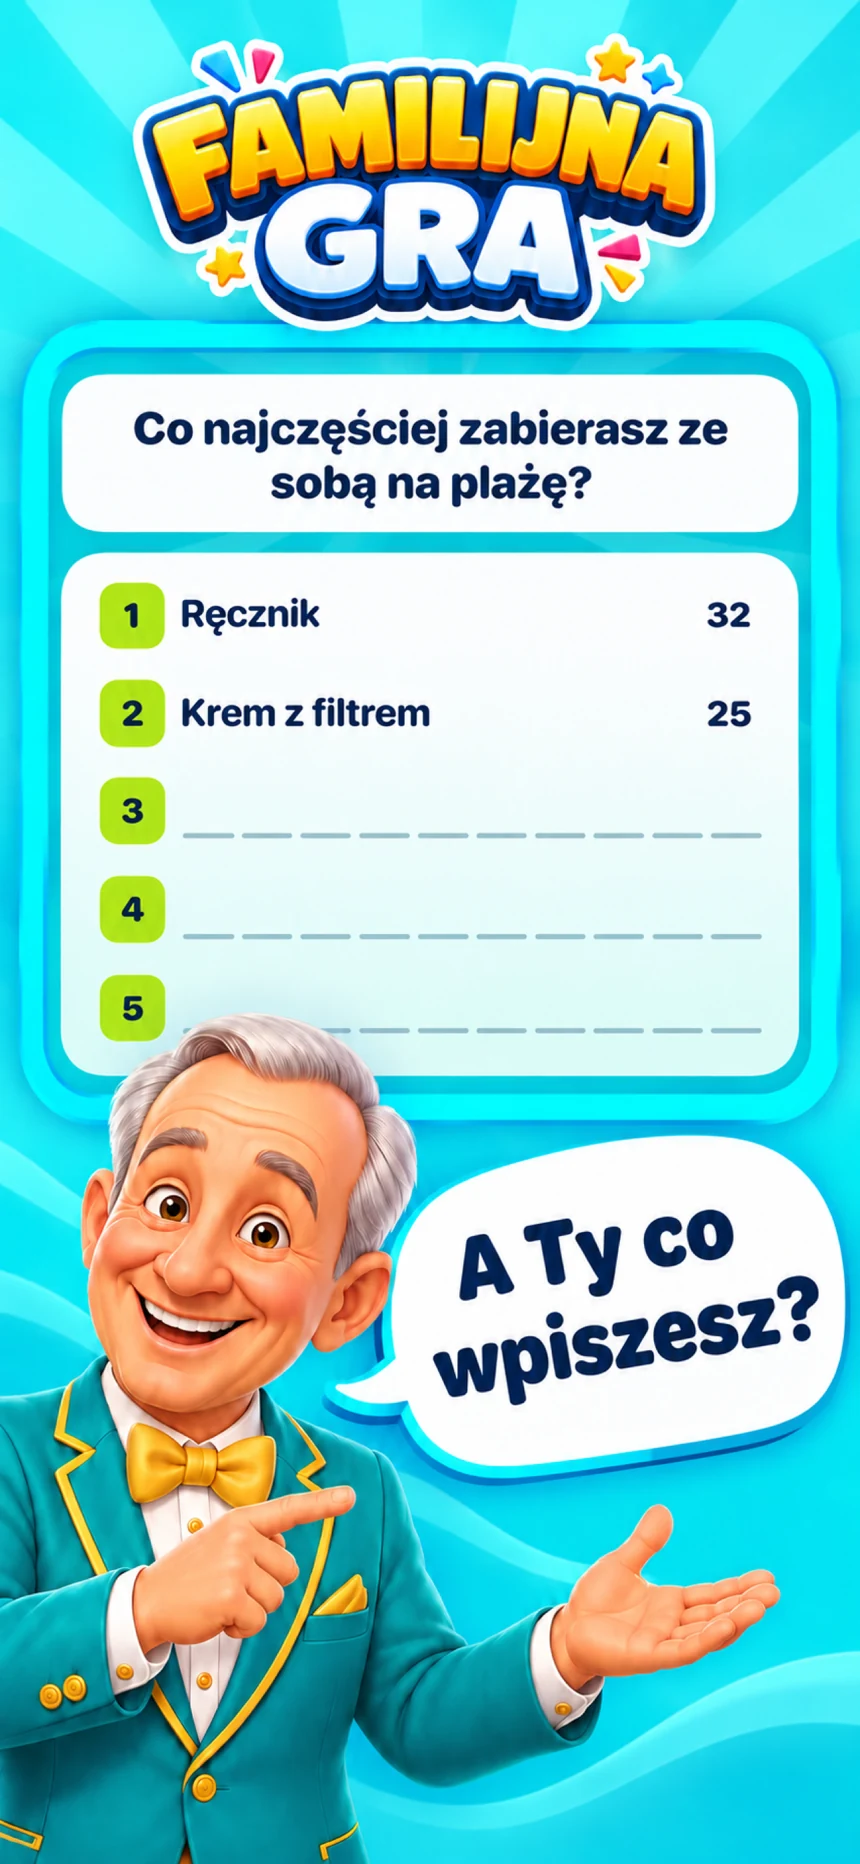
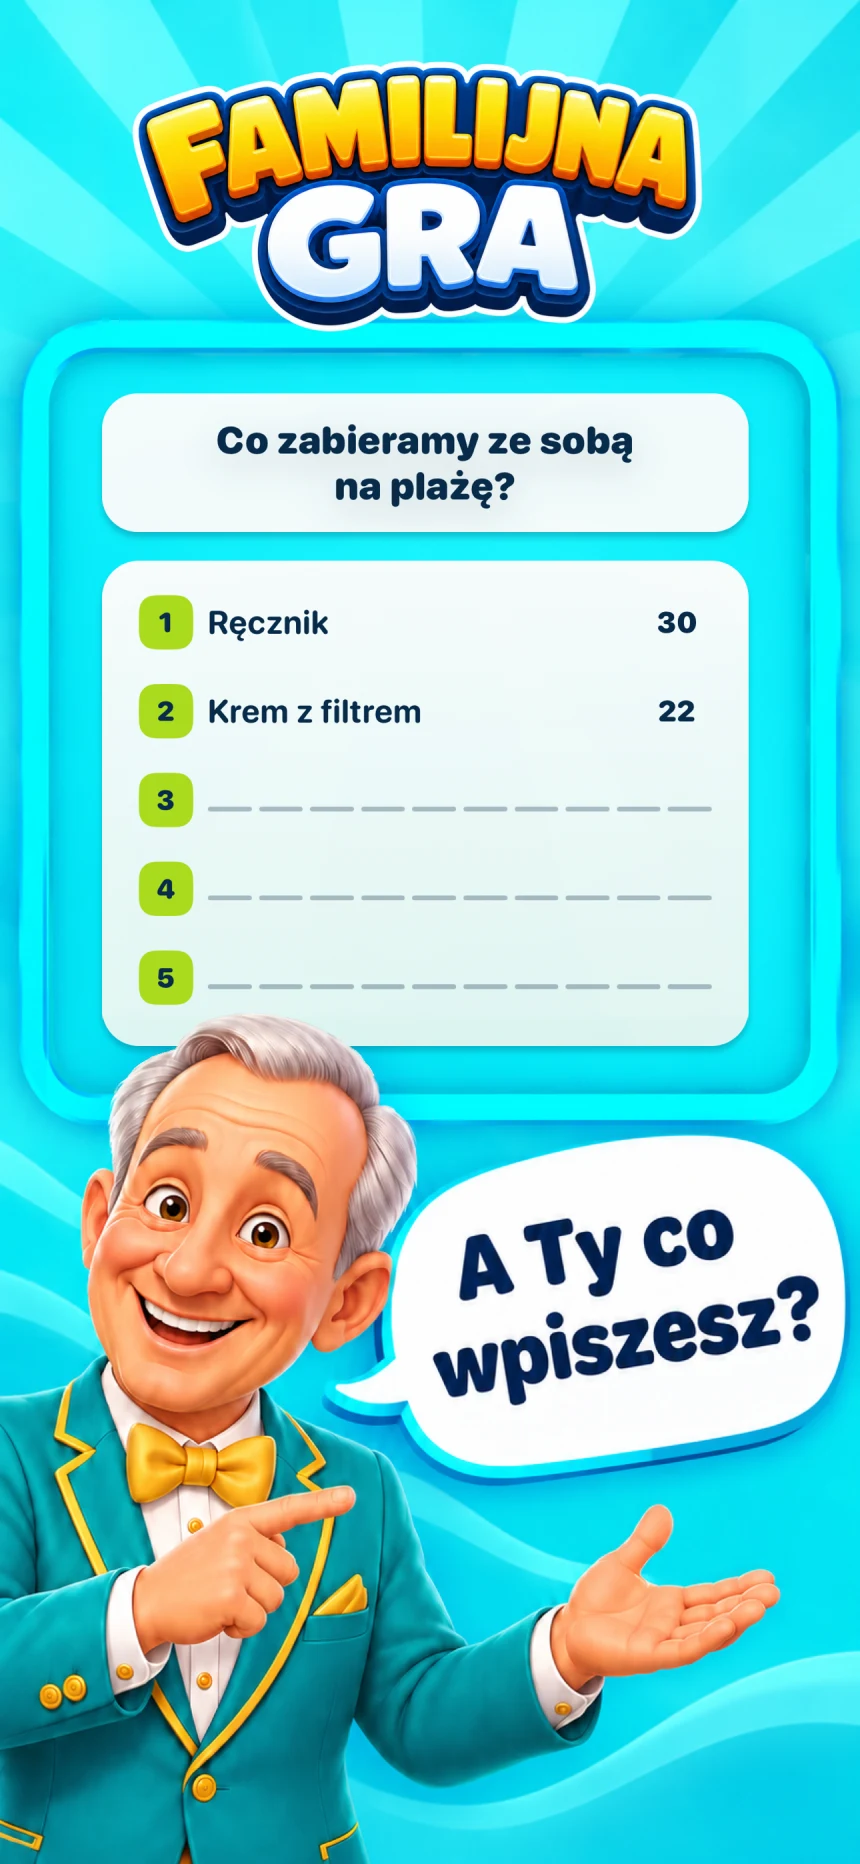
Refresh the Familijna Gra page with the Daily Question, chapter Finales and new screenshots

diff --git a/src/content.ts b/src/content.ts
@@ -9,7 +9,7 @@ export const content = {
       lighterApp: "Lighter Simulator - 3D lighters, Twin Jet torches and a Studio for your own designs on iPhone and iPad.",
       cachelift: "CacheLift - a free macOS app to find app caches, old downloads and unused files, review their risks and choose what to clean.",
       family: "Family Showdown support and privacy policy. Published in Poland as Familijna Gra.",
-      familyGame: "Family Showdown - the English edition of the family guessing game for iPhone. Guess popular answers, play Solo chapters, duel online or against a bot, and win points for your family.",
+      familyGame: "Family Showdown - a family guessing game for iPhone with a Daily Question, Solo challenges, online duels and offline bot matches.",
     },
     controls: {
       language: "Language",
@@ -235,7 +235,7 @@ export const content = {
       download: "Download on the",
       storeUrl: "https://apps.apple.com/us/app/family-showdown-quiz/id6805541234",
       availability: "Free with an in-app purchase · iOS 17 or later · US App Store",
-      highlights: ["In English", "Solo campaign", "English ranking"],
+      highlights: ["Daily Question", "Solo campaign", "Online duels"],
       heroImage: "en-guess",
       heroAlt: "Family Showdown promotional image with the host and a board asking what we take to the beach",
       howTitle: "One board. Plenty of ideas.",
@@ -246,19 +246,24 @@ export const content = {
         ["Win for your family", "Play five rounds. The family with more points wins, and a tied score plays one more round."],
       ],
       galleryTitle: "What is inside",
-      galleryDescription: "Play at your own pace in Solo, or go head to head in Duel. Each board totals 100 points. The points show what an answer is worth in the game. They are not a poll result.",
+      galleryDescription: "A Daily Question, Solo challenges with chapter Finales and duels online or against a bot.",
       screenshots: [
-        { image: "en-solo", title: "Go Solo", description: "Five chapters of challenges to play at your own pace.", alt: "Solo map of chapter 1, Around the House, with the caption Your Solo adventure" },
-        { image: "en-play", title: "Online or against a bot", description: "Find an opponent, or start a local match whenever you like.", alt: "Game image presenting local play against a bot and online play" },
+        { image: "en-solo", title: "Your Solo adventure", description: "Five chapters and 30 challenges on one scrolling map, with a Finale at the end of each chapter.", alt: "Solo map with completed challenges and the Finale gate in chapter 1, Around the House" },
+        { image: "en-play", title: "Online or against a bot", description: "Find an opponent, or choose Play locally to start a bot match.", alt: "Game image presenting local play against a bot and online play" },
         { image: "en-leaderboard", title: "Climb the leaderboard", description: "Online duels move your family up the English leaderboard.", alt: "English leaderboard of online duels with family names and points" },
+        { image: "en-daily", title: "One new board every day", description: "One try, three lives and the same board for everyone playing in your language.", alt: "Daily Question gameplay asking when we shower, with two revealed answers and three lives" },
+        { image: "en-finale", title: "The chapter Finale", description: "Six questions, one answer per board and 50 seconds for the whole chapter Finale.", alt: "Chapter 1 Finale introduction, with six questions, a 50-second timer and star thresholds of 80, 100 and 120 points" },
+        { image: "en-daily-share", title: "Keep your streak going", description: "Compare Daily Question scores on Game Center and share your result with friends.", alt: "Daily Question share card with a 100-point score, a full board and a five-day streak" },
       ],
       details: [
-        ["Solo", "Five chapters and 30 challenges: Around the House, Just Outside the Door, Out Shopping, On the Road, and Let's Celebrate. Earn up to three stars on a challenge. Chapter 1 is free, and each chapter opens when the one before it is complete."],
-        ["Duel", "Play against another family online through Game Center, with its own English ranking, or choose Play locally and face a bot right away. Duel has 83 questions about food, home, travel, pets and everyday habits."],
-        ["Full game", "A one-time purchase opens chapters 2-5 of the Solo campaign and unlocks unlimited hints, with no ads for hints."],
+        ["Daily Question", "One new board every day, shared by players using the same language. You get one try and three lives. Build your streak, compare scores on Game Center, share your result and set a reminder for a time that suits you. New boards download over the internet."],
+        ["Solo", "Five chapters and 30 challenges about home, shopping, travel and celebrations. Play at your own pace and earn up to three stars per challenge. Solo works offline and needs no family profile or Game Center sign-in."],
+        ["Chapter Finales", "Each chapter ends with six questions and one shared 50-second timer. Give one answer per board and earn 80, 100 or 120 points for one, two or three stars. Pass the Finale to move on, with all chapters on one scrolling map."],
+        ["The whole campaign for free", "Finish a chapter, then watch one rewarded ad to open the next one. The one-time Full game purchase removes ads for chapters 2–5 and gives unlimited Solo hints. You still complete chapters in order; your campaign save stays on the device."],
+        ["Duel", "Play another family online through Game Center, climb the English leaderboard and earn achievements. You can also choose Play locally and face a bot, even offline. Each match has five rounds, with a tiebreaker if needed."],
         ["Hints", "A hint reveals a random hidden answer and never costs a life, but that attempt can earn at most two stars. One Solo hint each day is free, and you can watch a rewarded ad for another one."],
       ],
-      gameLanguage: "Family Showdown is the English edition. The game and all questions are in English. The Polish edition is called Familijna Gra and is available in the Polish App Store. Solo and bot matches work offline; online play requires internet, Game Center sign-in and a family name reserved through iCloud.",
+      gameLanguage: "Choose English or Polish in Settings. Each board totals 100 points; the points are game values, not poll results. Solo and bot matches work offline. Online play requires internet, Game Center sign-in and a family name reserved through iCloud. Rewarded ads require internet.",
       footerName: "Family Showdown",
       linksTitle: "Support and privacy",
       support: "Get support",
@@ -349,7 +354,7 @@ export const content = {
       lighterApp: "Lighter Simulator - zapalniczki 3D, palniki Twin Jet i Studio do własnych projektów na iPhone’a i iPada.",
       cachelift: "CacheLift - darmowa aplikacja na Maca. Znajdź pamięć podręczną aplikacji, stare pobrane pliki i pozostałości, sprawdź ryzyko i wybierz, co usunąć.",
       family: "Wsparcie i polityka prywatności aplikacji Familijna Gra.",
-      familyGame: "Familijna Gra — quiz po polsku na iPhone’a. Zgaduj popularne odpowiedzi, graj online lub z botem i zdobywaj punkty dla swojej rodziny.",
+      familyGame: "Familijna Gra — quiz na iPhone’a: pytanie dnia, wyzwania Solo, pojedynki online i gra z botem bez internetu. Zgaduj odpowiedzi i zdobywaj punkty.",
     },
     controls: {
       language: "Język",
@@ -575,7 +580,7 @@ export const content = {
       download: "Pobierz w",
       storeUrl: "https://apps.apple.com/pl/app/familijna-gra-quiz/id6805541234",
       availability: "Za darmo, z zakupem w aplikacji · iOS 17 lub nowszy · Polski App Store",
-      highlights: ["Po polsku", "Kampania Solo", "Ranking online"],
+      highlights: ["Pytanie dnia", "Kampania Solo", "Pojedynki online"],
       heroImage: "guess",
       heroAlt: "Grafika Familijnej Gry z prowadzącym i tablicą odpowiedzi na pytanie o rzeczy zabierane na plażę",
       howTitle: "Jedna tablica. Mnóstwo skojarzeń.",
@@ -586,14 +591,24 @@ export const content = {
         ["Wygraj dla swojej rodziny", "Zbieraj punkty przez pięć rund. Wygrywa wyższy wynik, a przy remisie rozstrzyga dogrywka."],
       ],
       galleryTitle: "Zajrzyj do gry",
-      galleryDescription: "Graj we własnym tempie w kampanii Solo albo zmierz się z inną rodziną w Pojedynku: online przez Game Center lub od razu z botem, również bez internetu.",
+      galleryDescription: "Codzienne pytanie, wyzwania Solo z Finałami rozdziałów i pojedynki online lub z botem.",
       screenshots: [
-        { image: "solo", title: "Graj Solo", description: "Pięć rozdziałów wyzwań do przejścia we własnym tempie.", alt: "Mapa Solo rozdziału 01 Dom pełen skojarzeń z hasłem Twoja przygoda Solo" },
-        { image: "play", title: "Online lub z botem", description: "Znajdź rywala albo rozpocznij lokalny mecz, kiedy chcesz.", alt: "Grafika przedstawiająca grę lokalną z botem i pojedynek online" },
+        { image: "solo", title: "Twoja przygoda Solo", description: "Pięć rozdziałów i 30 wyzwań na jednej przewijanej mapie, z Finałem na końcu każdego rozdziału.", alt: "Mapa Solo: ukończone wyzwania i bramka Finału w rozdziale Dom pełen skojarzeń" },
+        { image: "play", title: "Online lub z botem", description: "Znajdź rywala albo wybierz Graj lokalnie, żeby rozpocząć mecz z botem.", alt: "Grafika przedstawiająca grę lokalną z botem i pojedynek online" },
         { image: "leaderboard", title: "Pnij się w rankingu", description: "Pojedynki online przesuwają Twoją rodzinę w rankingu.", alt: "Ranking pojedynków online z nazwami rodzin i punktami" },
+        { image: "daily", title: "Codziennie nowa plansza", description: "Jedna próba, trzy życia i to samo pytanie dla wszystkich grających w danym języku.", alt: "Pytanie dnia Jak płacimy w sklepie, z dwiema odkrytymi odpowiedziami i trzema życiami" },
+        { image: "finale", title: "Finał", description: "Sześć pytań, po jednej odpowiedzi i 50 sekund na cały Finał rozdziału.", alt: "Wstęp do Finału rozdziału 1: sześć pytań, 50 sekund oraz progi gwiazdek 80, 100 i 120 punktów" },
+        { image: "daily-share", title: "Buduj serię i dziel się wynikiem", description: "Porównuj wyniki pytania dnia w Game Center i wysyłaj swoją kartę znajomym.", alt: "Karta udostępniania pytania dnia z wynikiem 88 punktów i serią pięciu dni" },
       ],
-      details: [],
-      gameLanguage: "Cała gra i pytania są po polsku. Rozgrywka online wymaga internetu i zalogowania do Game Center.",
+      details: [
+        ["Pytanie dnia", "Codziennie jedna nowa plansza, wspólna dla graczy danego języka. Masz jedną próbę i trzy życia. Buduj serię, porównuj wynik w rankingu Game Center, udostępniaj go znajomym i ustaw przypomnienie o wybranej godzinie. Nowe plansze pobierają się przez internet."],
+        ["Kampania Solo", "Pięć rozdziałów i 30 wyzwań o domu, zakupach, podróżach i świętowaniu. Graj we własnym tempie i zdobywaj do trzech gwiazdek za wyzwanie. Solo działa bez internetu, profilu rodziny i logowania do Game Center."],
+        ["Finały rozdziałów", "Każdy rozdział kończy sześć pytań ze wspólnym zegarem 50 sekund. Podaj po jednej odpowiedzi i zdobądź 80, 100 lub 120 punktów na jedną, dwie lub trzy gwiazdki. Zalicz Finał, żeby ruszyć dalej. Wszystkie rozdziały znajdziesz na jednej przewijanej mapie."],
+        ["Cała kampania za darmo", "Ukończ rozdział i obejrzyj jedną reklamę z nagrodą, żeby otworzyć następny. Jednorazowy zakup Pełnej gry usuwa reklamy przy otwieraniu rozdziałów 2–5 i daje podpowiedzi Solo bez limitu. Zachowuje kolejność przechodzenia rozdziałów; zapis kampanii pozostaje na urządzeniu."],
+        ["Pojedynek", "Graj z inną rodziną online przez Game Center, pnij się w polskim rankingu i zdobywaj osiągnięcia. Możesz też wybrać Graj lokalnie i zmierzyć się z botem, również bez internetu. Mecz ma pięć rund, a remis rozstrzyga dogrywka."],
+        ["Podpowiedzi", "Podpowiedź odkrywa losową ukrytą odpowiedź i nie odbiera życia, ale taka próba da najwyżej dwie gwiazdki. Jedna podpowiedź Solo dziennie jest darmowa, a kolejną możesz odebrać po obejrzeniu reklamy z nagrodą."],
+      ],
+      gameLanguage: "W ustawieniach wybierzesz polski lub angielski. Tablica ma łącznie 100 punktów; punkty oznaczają wagę odpowiedzi w grze, a nie wynik sondażu. Solo i mecze z botem działają bez internetu. Gra online wymaga sieci, Game Center i nazwy rodziny zarezerwowanej przez iCloud. Reklamy z nagrodą wymagają internetu.",
       footerName: "Familijna Gra",
       linksTitle: "Pomoc i prywatność",
       support: "Pomoc i kontakt",

diff --git a/src/FamilyGamePage.tsx b/src/FamilyGamePage.tsx
@@ -6,8 +6,7 @@ import { content, type Locale } from "./content"
 export function FamilyGamePage({ locale }: { locale: Locale }) {
   const t = content[locale].familyGame
   const supportPath = `/${locale}/familijna-gra-support`
-  // The English edition ships with app 1.1, so its links go to the 1.1 policy page.
-  const policyPath = locale === "en" ? `${supportPath}/1.1` : supportPath
+  const policyPath = `${supportPath}/1.3`
 
   return (
     <div className="family-game mx-auto max-w-5xl px-6 pb-12 pt-10 md:pt-16">
@@ -58,7 +57,7 @@ export function FamilyGamePage({ locale }: { locale: Locale }) {
         <h2 id="family-gallery" className="mb-3 text-2xl font-light tracking-tight">{t.galleryTitle}</h2>
         <p className="mb-8 max-w-xl text-sm leading-relaxed text-muted-foreground">{t.galleryDescription}</p>
         {t.details.length ? (
-          <dl className="grid gap-7 sm:grid-cols-2 sm:gap-x-10">
+          <dl className="mb-10 grid gap-7 sm:grid-cols-2 sm:gap-x-10">
             {t.details.map(([title, description]) => (
               <div key={title} className="border-l border-border pl-5">
                 <dt className="mb-2 text-base font-medium">{title}</dt>

diff --git a/AGENTS.md b/AGENTS.md
@@ -6,6 +6,7 @@ Statyczna strona `pjanecze.xyz`: portfolio autora oraz strony wsparcia, polityki
 
 - Vite + React + `react-router`, budowane do `dist/`.
 - Cała treść (en i pl) jest w `src/content.ts`. Routing stron w `src/App.tsx` (`currentPage`), osobne widoki np. `src/FamilyGamePage.tsx`.
+- Na stronie Familijnej Gry opisuj prezentowane funkcje jako obecne; nie dodawaj samodzielnie zapowiedzi „wkrótce w wersji X”.
 - Obrazy w `public/images/<projekt>/`, pliki statyczne z korzenia domeny w `public/`.
 - `scripts/prepare-routes.mjs` kopiuje `index.html` do katalogu każdej trasy i wstrzykuje metadane SEO dla `familijna-gra`. Nowa trasa wymaga wpisu w tym skrypcie i w `currentPage`.
 
